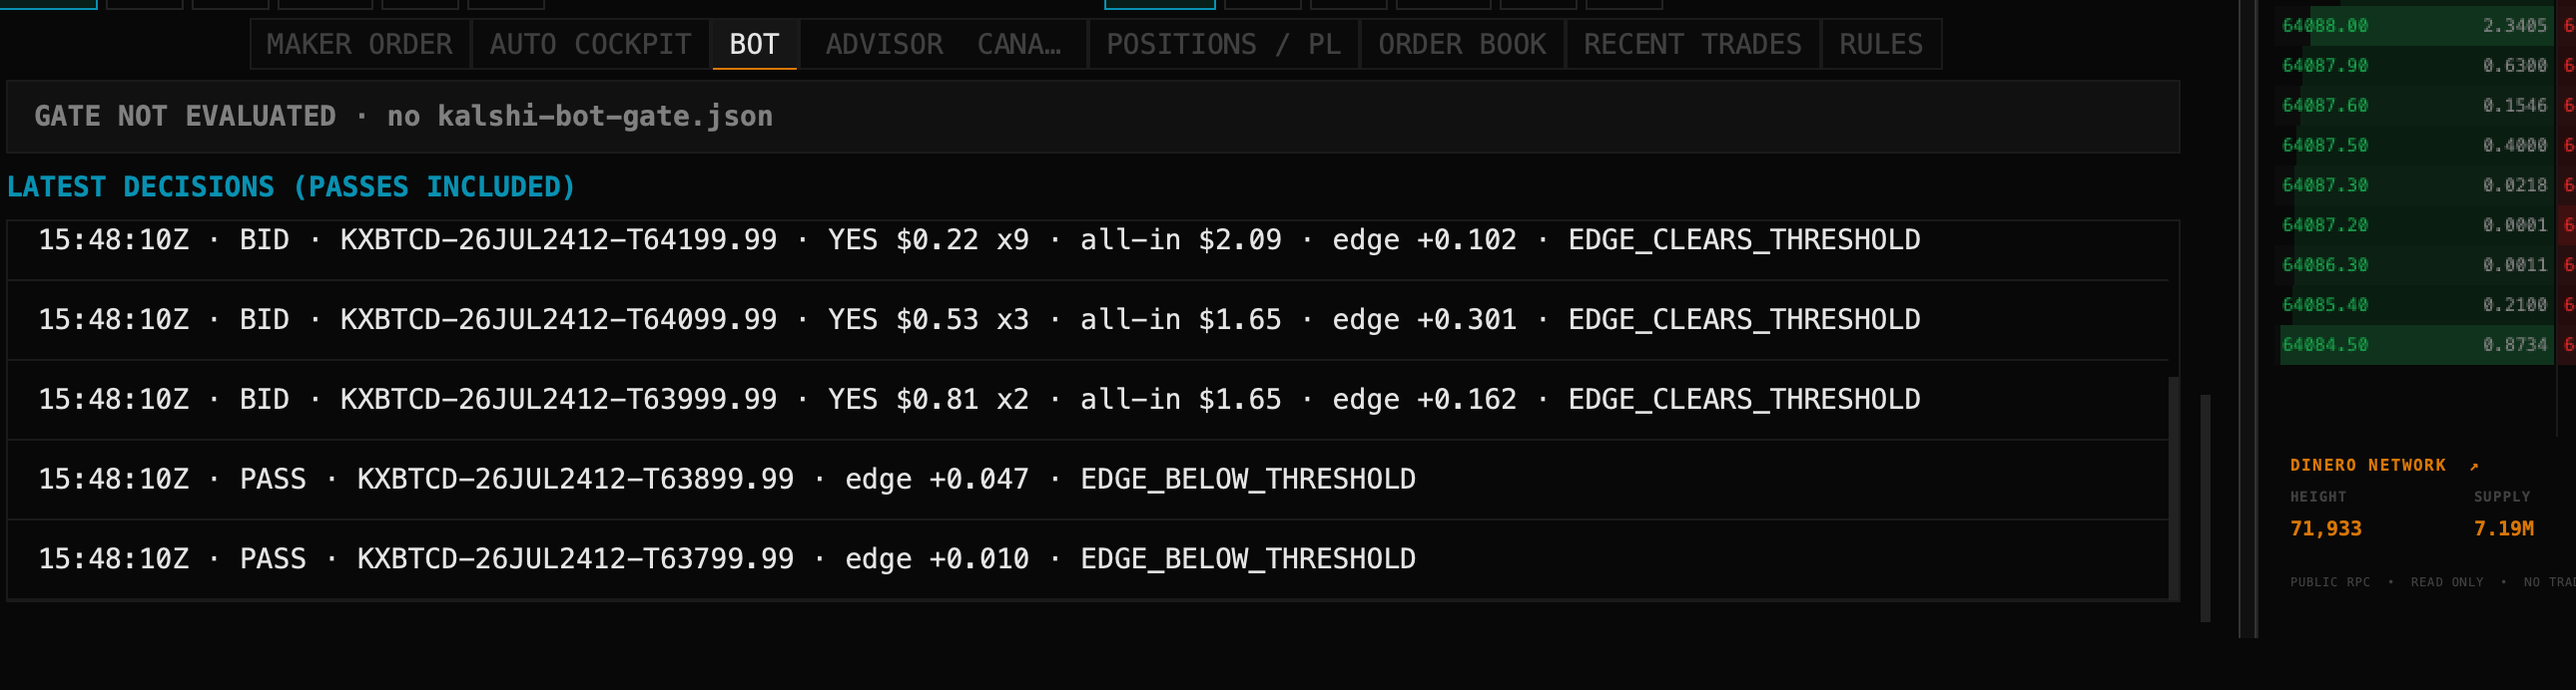
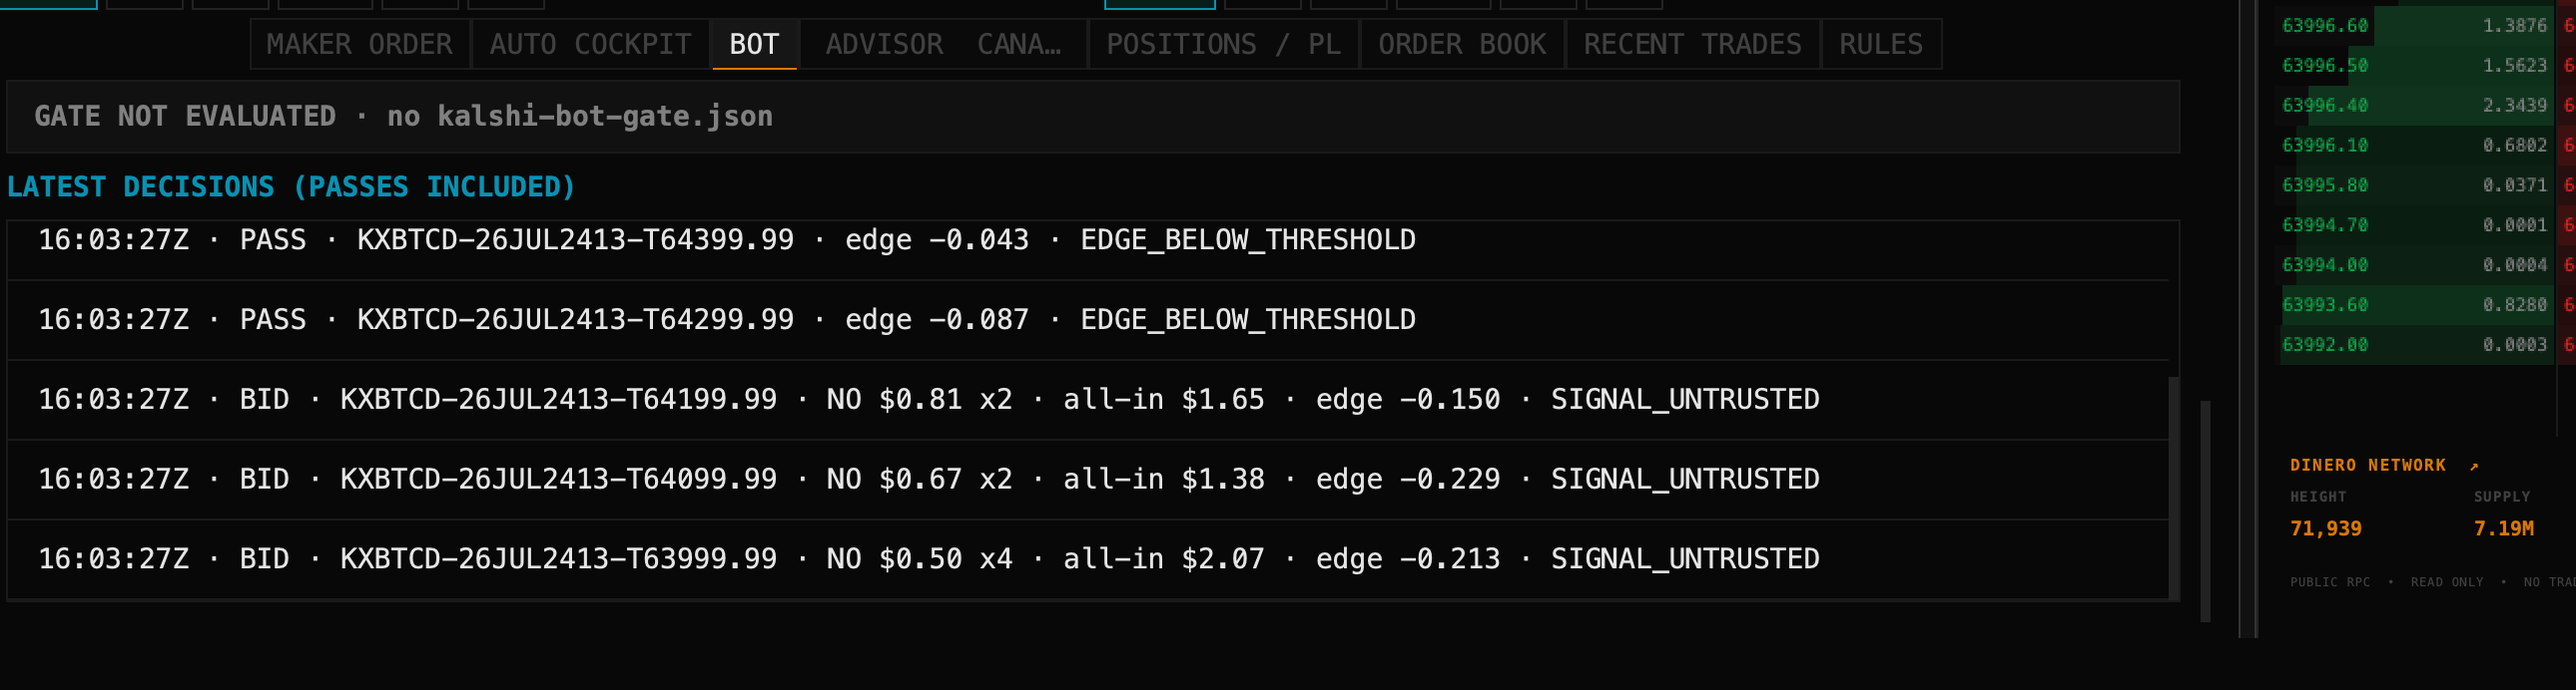
fix(kalshi): the BOT panel says whose arm it is showing
The armed line reads the shared Kalshi live session (PRs #39/#44), which is a
different execution path from the paper bot. On a panel titled PAPER LADDER a
bare "ARMED" could be read as "the bot is armed", so the line now names the
session it came from and states that the bot has no arm of its own.

Evidence re-captured against this build, and the set now also carries the
amber stale state: the panel was shot at BOT STALE (15m-old ledger), then a
`kalshi bot once` run flipped it to BOT RUNNING in the same session. That run
also flipped the live calibrator to untrusted, so the SIGNAL UNTRUSTED and
NO-side / negative-edge row rendering are covered by real evidence too.

diff --git a/openmarketterminal-qt/src/screens/kalshi/KalshiBotPanelPresentation.h b/openmarketterminal-qt/src/screens/kalshi/KalshiBotPanelPresentation.h
@@ -202,7 +202,11 @@ inline KalshiBotPanelView present_kalshi_bot_panel(const QJsonArray& ledger_rows
     } else {
         view.armed_live = true;
         const QJsonValue orders = live_status.value(QStringLiteral("max_orders_per_hour"));
-        view.armed = QStringLiteral("ARMED · caps in force: stake <= %1 · all-in <= %2 · "
+        // Whose arm this is, stated on the line itself: the shared Kalshi live
+        // session (the deterministic executor's), not a bot arm — the bot has
+        // no arm of its own, and this rung gives it no way to get one.
+        view.armed = QStringLiteral("ARMED · shared Kalshi live session (the bot has no arm of its "
+                                    "own) · caps in force: stake <= %1 · all-in <= %2 · "
                                     "<= %3 orders/hour · exposure %4 of %5%6")
             .arg(cap(live_status, QStringLiteral("per_bet_contract_stake_cap")),
                  cap(live_status, QStringLiteral("per_bet_all_in_tolerance")),

diff --git a/openmarketterminal-qt/tests/tst_kalshi_bot_panel_presentation.cpp b/openmarketterminal-qt/tests/tst_kalshi_bot_panel_presentation.cpp
@@ -281,6 +281,10 @@ class KalshiBotPanelPresentationTest final : public QObject {
         const auto view = present_kalshi_bot_panel({}, {}, armed_session(), 7'200'000'000);
         QVERIFY(view.armed_live);
         QVERIFY(view.armed.startsWith("ARMED"));
+        // The arm on display is the shared live session's, not the bot's own —
+        // the line says so, so an armed session cannot read as an armed bot.
+        QVERIFY(view.armed.contains("shared Kalshi live session"));
+        QVERIFY(view.armed.contains("the bot has no arm of its own"));
         QVERIFY(view.armed.contains("stake <= $2.00"));
         QVERIFY(view.armed.contains("all-in <= $3.00"));
         QVERIFY(view.armed.contains("<= 10 orders/hour"));
